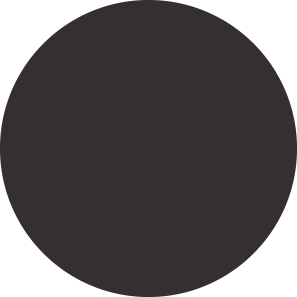
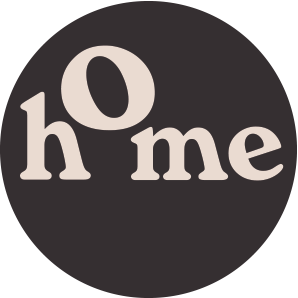
new

diff --git a/Project1/chanterelles.html b/Project1/chanterelles.html
@@ -6,7 +6,7 @@
     <link rel="stylesheet" href="style.css" />
     <title>Chanterelles</title>
   </head>
-  <body>
+  <body class="chanterellepage">
     <main class="chanterellemain">
       <section class="grid-2">
         <div class="left chanterelle-layer">
@@ -28,6 +28,6 @@
         </div>
       </section>
     </main>
-    <div class="sticky-top"><img src="http://placekitten.com/100/100"></div>
+    <div class="sticky-top"><img src="images/homebutton.png"></div>
   </body>
 </html>

diff --git a/Project1/style.css b/Project1/style.css
@@ -39,6 +39,7 @@
 }
 
 .sticky-top {
+  position: -webkit-sticky;
   position: sticky;
   top: 40px;
   left: 60px;
@@ -49,6 +50,7 @@
 
 
 .sticky-top img {
+  width: 80px;
   border-radius: 50%;
 }
 body { 
@@ -60,7 +62,7 @@ body {
   background-color: #F1F2F2;
 }
 
-.chantrellepage {
+.chanterellepage {
   background-color: #EADBD2;
 }
 
@@ -271,7 +273,6 @@ body {
 
 .chanterelle-content {
   padding: 150px 10px 10px 30px;
-  color: #352F31;
 }
 
 .chanterelles  {
